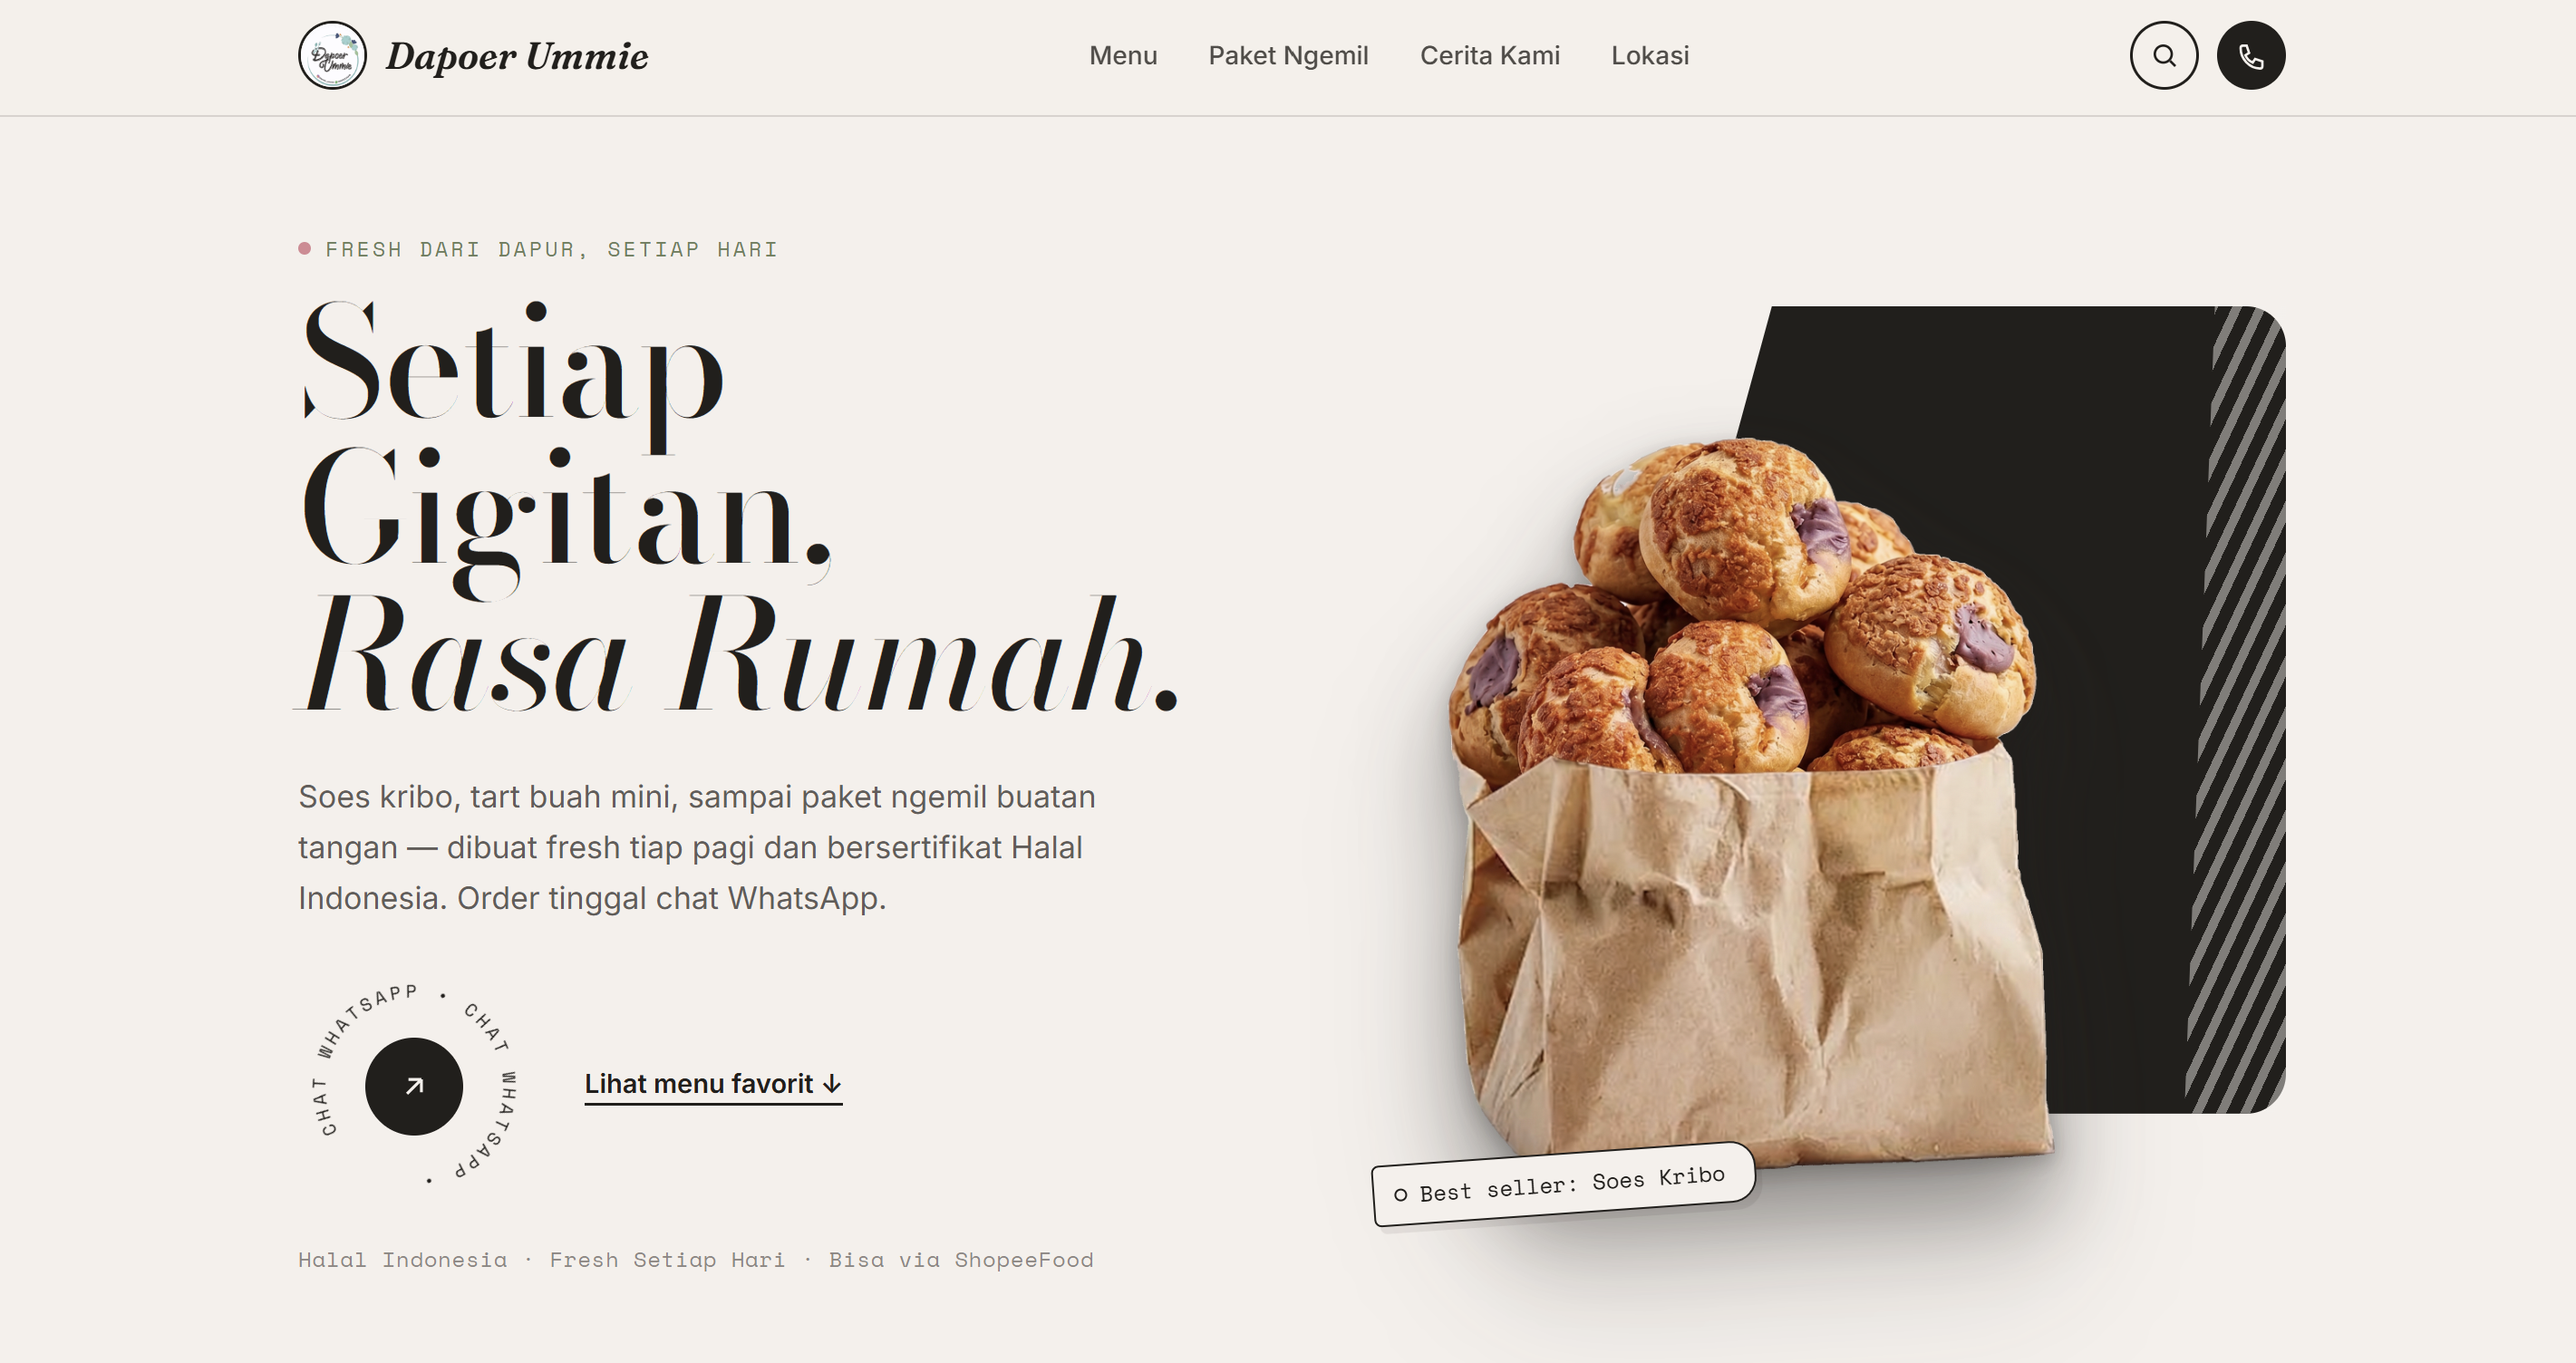
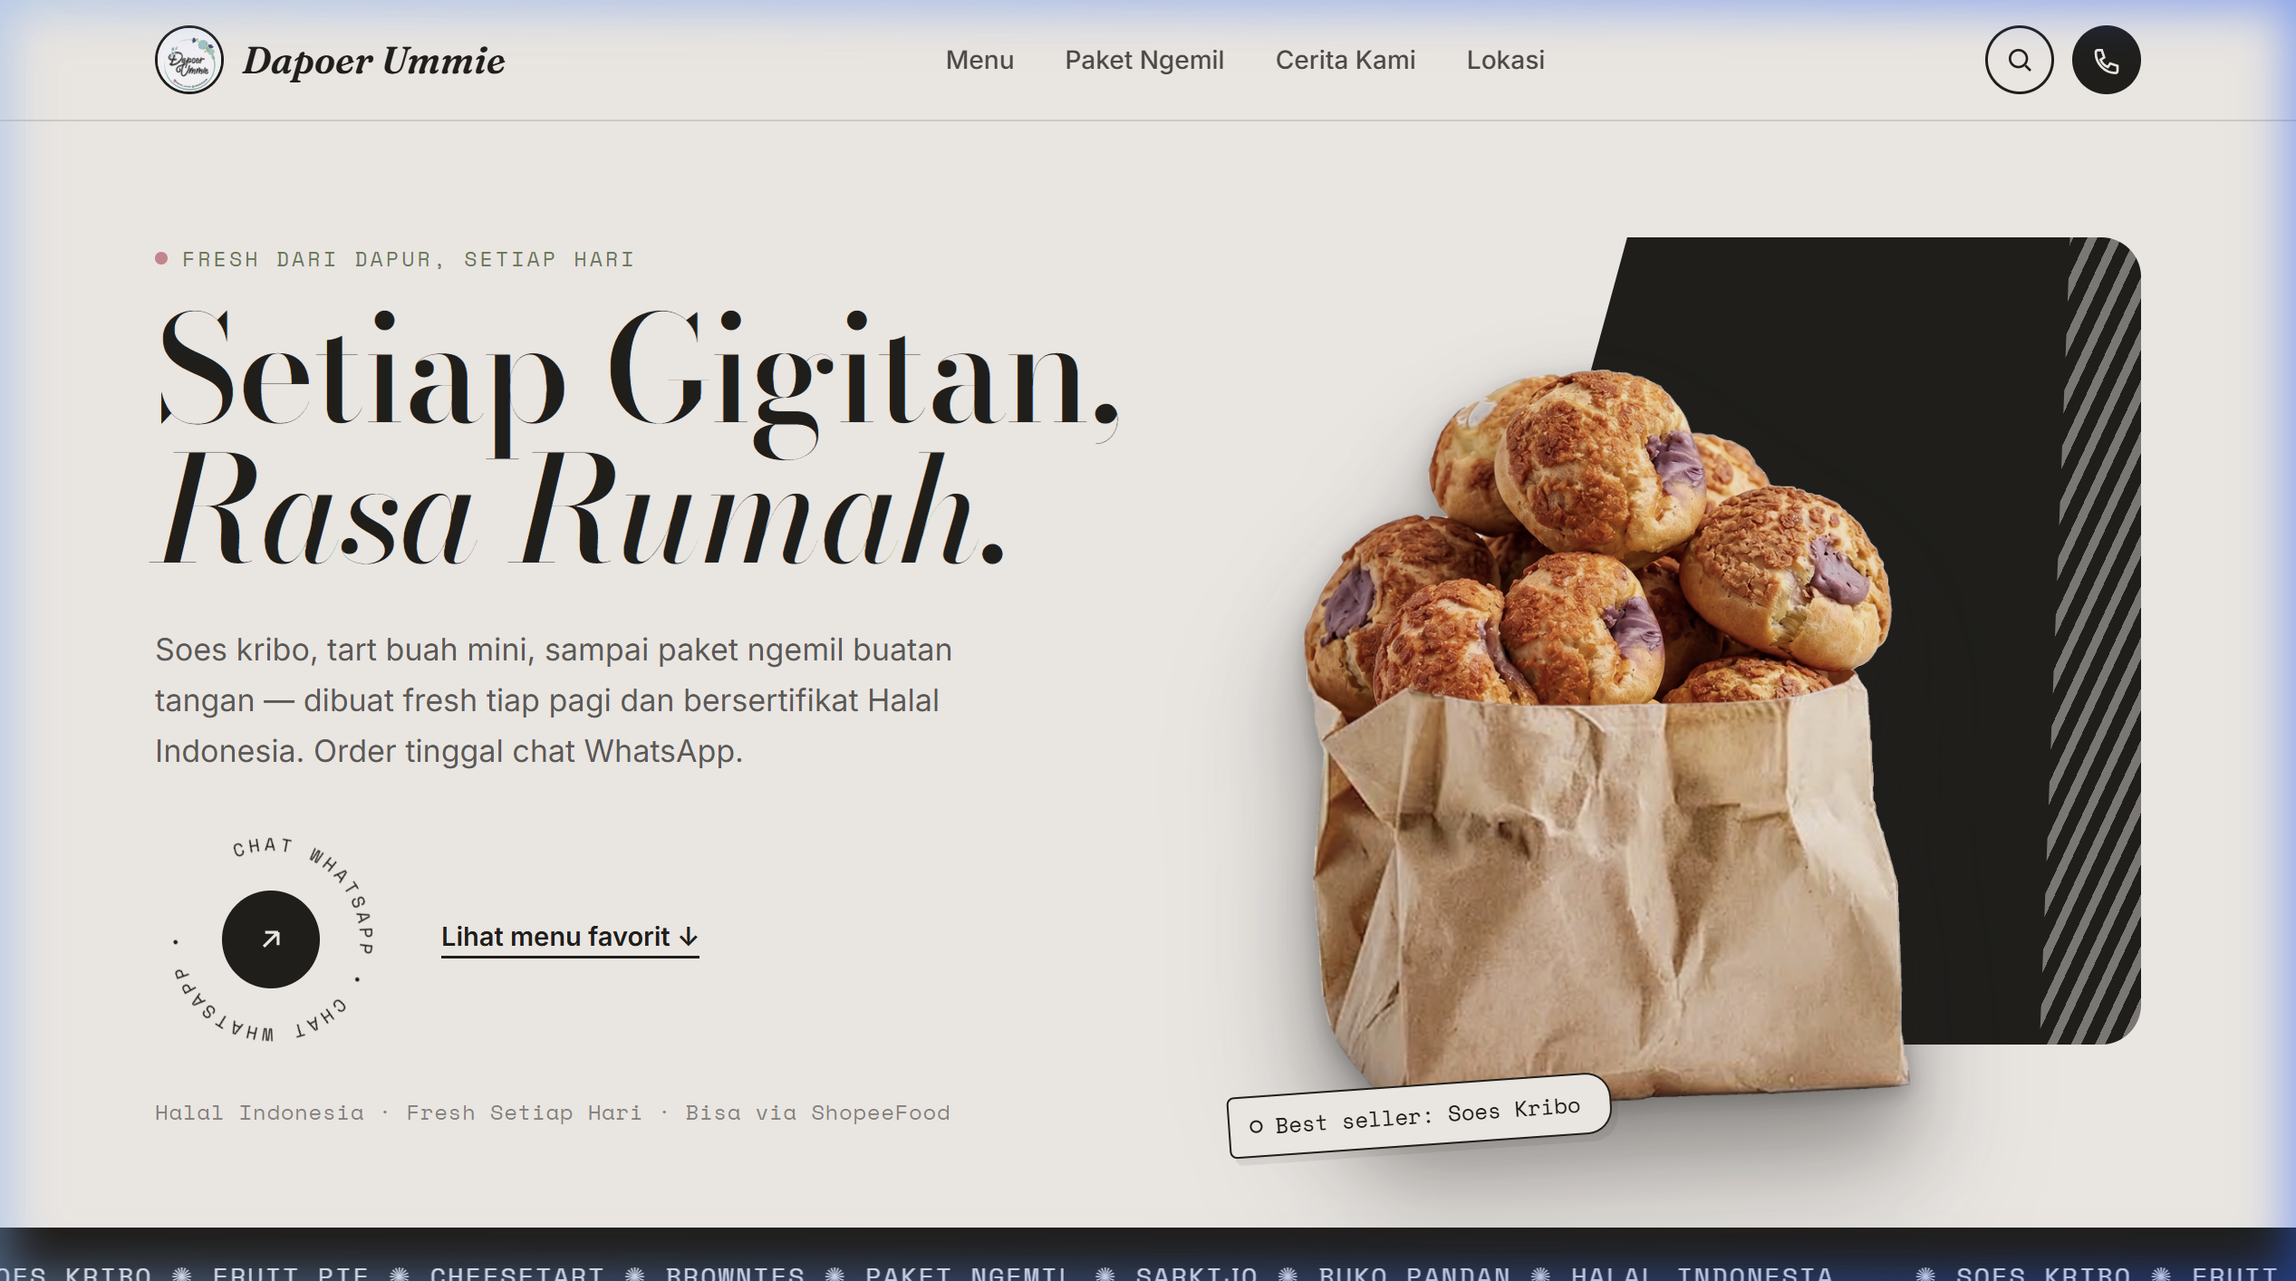
fix: update Dapoer Oemmi demo link to vercel URL + update project image

diff --git a/src/data/projects.js b/src/data/projects.js
@@ -22,7 +22,7 @@ export const projects = [
     description: 'A website for croissant,cake, and other snacks in Surabaya. Features include product listing',
     image: '/images/projects/project02.png',
     links: {
-      demo: 'file:///C:/Dapoer%20Ummi/index.html',
+      demo: 'https://dapoer-ummie.vercel.app/',
       github: '#',
     },
     featured: true,
